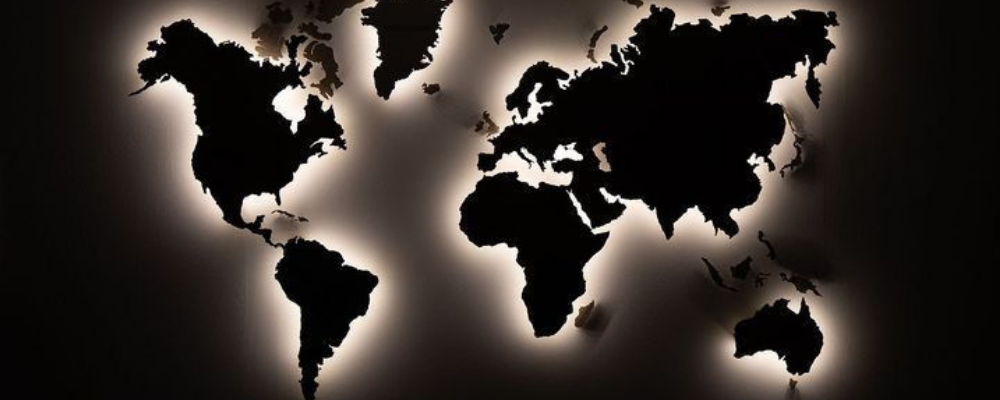
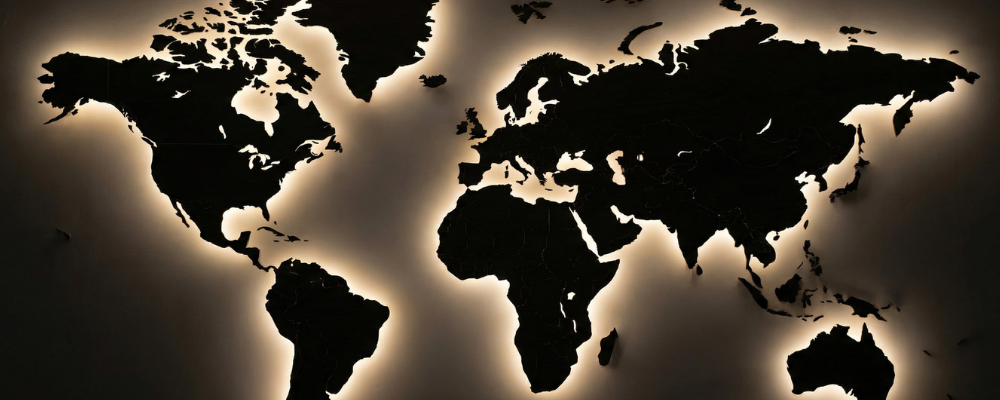
Added images  suggested by kartik

diff --git a/src/pages/HomePage.jsx b/src/pages/HomePage.jsx
@@ -5,8 +5,8 @@ import Button from '../components/Button';
 import AnimatedCard from '../components/AnimatedCard';
 import ScrollReveal from '../components/ScrollReveal';
 import { FaCog, FaTrophy, FaCheckCircle, FaMicroscope, FaGlobe, FaShieldAlt, FaChevronLeft, FaChevronRight, FaArrowRight } from 'react-icons/fa';
-import slideRod from '../assets/updatedImagesChanges/rp_phos & rods.png';
-import slideRings from '../assets/updatedImagesChanges/rp_silver & rings.png';
+import slideRod from '../assets/glimps/rods.png';
+import slideRings from '../assets/glimps/rings.png';
 import glimpsStrips from '../assets/glimps/strips.png';
 import glimpsFoils from '../assets/glimps/foils.png';
 import glimpsWire from '../assets/glimps/wire.png';
@@ -292,7 +292,7 @@ export default function HomePage() {
                     style={{ minWidth: `${slideWidth}%`, maxWidth: `${slideWidth}%` }}
                   >
                     <div className="flex h-full flex-col overflow-hidden rounded-2xl border border-gray-100 bg-white shadow-md transition-all duration-500 group hover:border-primary/20 hover:shadow-xl">
-                      <div className="relative h-56 w-full shrink-0 overflow-hidden bg-white sm:h-60 md:h-72 lg:h-80">
+                      <div className="relative h-56 w-full shrink-0 overflow-hidden bg-white sm:h-60 md:h-72 lg:h-72">
                         <img
                           src={form.image}
                           alt={form.label}